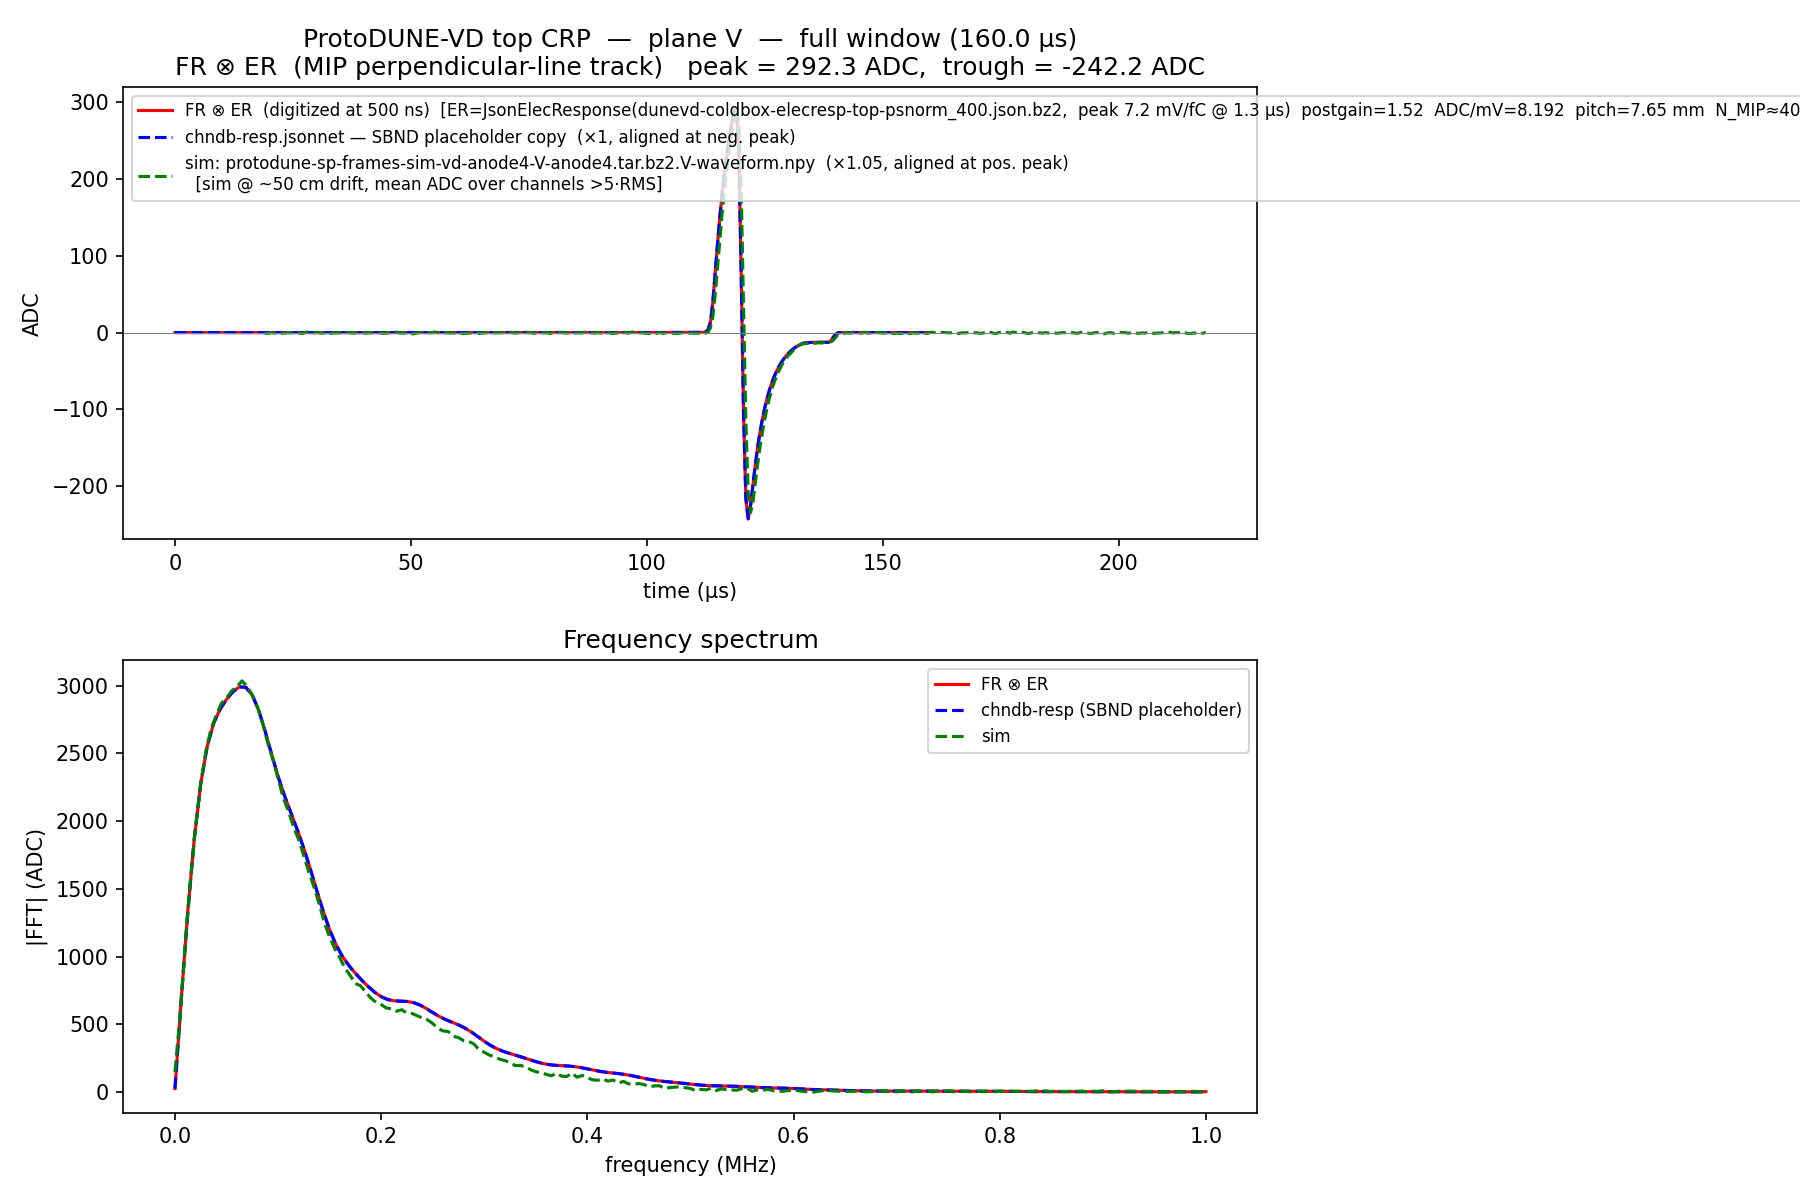
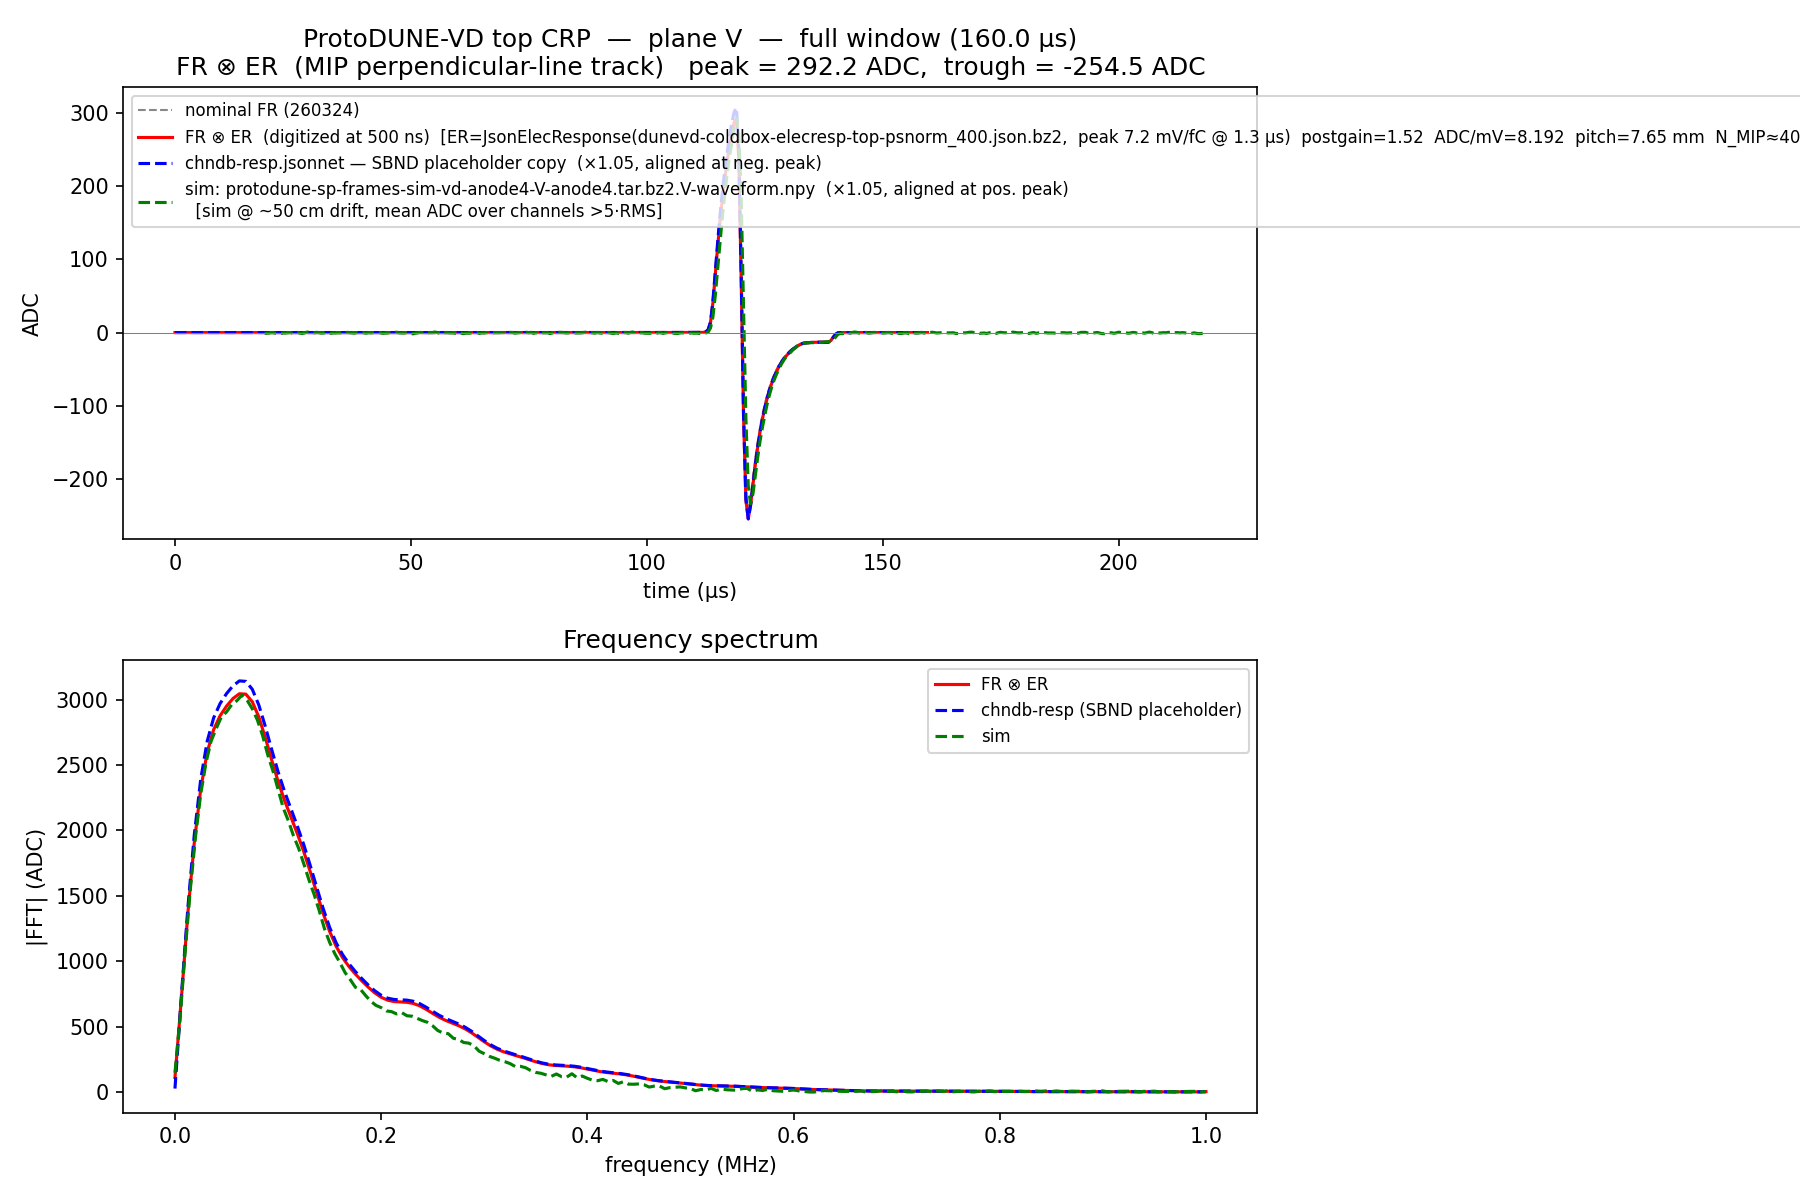
pdvd/nf_plot: add FR imbalance comparison; update to imbalance3p_260501
- pdhd: add APA0 (mcmc-bestfit) vs nominal comparison for U plane only
- pdvd bottom/top: add nominal vs imbalance3p comparison for U and V
- update FR to protodunevd_FR_imbalance3p_260501.json.bz2
- regenerate all PNGs with nominal FR overlay

diff --git a/pdvd/nf_plot/track_response_pdhd.py b/pdvd/nf_plot/track_response_pdhd.py
@@ -39,7 +39,8 @@ from wirecell import units
 from wirecell.util.fileio import wirecell_path
 
 WORKDIR = os.path.dirname(os.path.abspath(__file__))
-FR_FILE = 'dune-garfield-1d565.json.bz2'   # APA 1/2/3 nominal (params.jsonnet:159)
+FR_FILE      = 'dune-garfield-1d565.json.bz2'                  # APA 1/2/3 nominal (params.jsonnet:159)
+FR_FILE_APA0 = 'np04hd-garfield-6paths-mcmc-bestfit.json.bz2'  # APA 0 (params.jsonnet:157)
 
 CHNDB_RESP_FILE = ('/nfs/data/1/xqian/toolkit-dev/toolkit/cfg/pgrapher'
                    '/experiment/pdhd/chndb-resp.jsonnet')
@@ -127,7 +128,7 @@ def line_source_response(plane):
     return integral / pitch
 
 
-def make_plot(wave_adc, chndb_ref, tick_us, plane_label, pitch_mm, n_mip_pl, outpath, sim=None):
+def make_plot(wave_adc, chndb_ref, tick_us, plane_label, pitch_mm, n_mip_pl, outpath, sim=None, wave_apa0=None):
     N = len(wave_adc)
     t_us      = np.arange(N) * tick_us
     freqs_mhz = np.fft.rfftfreq(N, d=tick_us)
@@ -153,6 +154,10 @@ def make_plot(wave_adc, chndb_ref, tick_us, plane_label, pitch_mm, n_mip_pl, out
     fig, axes = plt.subplots(2, 1, figsize=(12, 8))
 
     ax = axes[0]
+    if wave_apa0 is not None:
+        t_us_a0 = np.arange(len(wave_apa0)) * tick_us
+        ax.plot(t_us_a0, wave_apa0, color='#888888', lw=1.0, ls='--',
+                label='APA0 FR (np04hd-garfield-6paths-mcmc-bestfit)')
     ax.plot(t_us, wave_adc, 'r-', lw=1.5,
             label=f'FR ⊗ ER (digitized at {tick_us*1000:.0f} ns)  [{params_str}]')
     ax.plot(t_chndb, chndb_scaled, 'b--', lw=1.5,
@@ -200,6 +205,9 @@ def run():
     print(f'Loading {FR_FILE} ...')
     fr = persist.load(FR_FILE, paths=wirecell_path())
     print(f'FR period = {fr.period} ns,  tstart = {fr.tstart}')
+    print(f'Loading {FR_FILE_APA0} for APA0 comparison ...')
+    fr_apa0 = persist.load(FR_FILE_APA0, paths=wirecell_path())
+    apa0_planes = {pl.planeid: pl for pl in fr_apa0.planes}
 
     period_ns = fr.period
     N_fr = len(fr.planes[0].paths[0].current)
@@ -264,6 +272,31 @@ def run():
         print(f'  bipolar balance:  ∫+ = {sum_pos:+.2f}  ∫- = {sum_neg:+.2f}  '
               f'net = {net:+.2f}  total = {total:.2f}  balance = {balance:+.4f} (ADC·µs)')
 
+        # APA0 FR comparison — U plane only (V is collection-like for APA0)
+        wave_adc_apa0 = None
+        if label == 'U':
+            pl_a0 = apa0_planes[pid]
+            N_fr_a0 = len(pl_a0.paths[0].current)
+            times_a0 = np.arange(N_fr_a0, dtype=float) * period_ns
+            er_a0 = np.asarray(wc_resp.electronics(times_a0, peak_gain=GAIN, shaping=SHAPING,
+                                                    elec_type='cold'), dtype=float)
+            N_adc_a0 = int(round(N_fr_a0 * period_ns / ADC_TICK_NS))
+            fr_line_a0 = line_source_response(pl_a0)
+            wave_adc_apa0 = sp_resample(
+                -(wc_resp.convolve(fr_line_a0, er_a0) * period_ns * n_mip(pl_a0.pitch) / units.mV * POSTGAIN),
+                N_adc_a0) * ADC_PER_MV
+            sp_a0 = float(wave_adc_apa0[wave_adc_apa0 > 0].sum()) * tick_us
+            sn_a0 = float(wave_adc_apa0[wave_adc_apa0 < 0].sum()) * tick_us
+            net_a0 = sp_a0 + sn_a0; tot_a0 = sp_a0 - sn_a0
+            print(f'  --- APA0 imbalance comparison (U only) ---')
+            print(f'  {"":18s}  {"nominal APA1-3":>16s}  {"APA0 mcmc-bestfit":>18s}')
+            print(f'  {"pos peak (ADC)":18s}  {pk_pos_adc:>16.2f}  {wave_adc_apa0[np.argmax(wave_adc_apa0)]:>18.2f}')
+            print(f'  {"neg trough (ADC)":18s}  {pk_neg_adc:>16.2f}  {wave_adc_apa0[np.argmin(wave_adc_apa0)]:>18.2f}')
+            print(f'  {"∫+ (ADC·µs)":18s}  {sum_pos:>16.2f}  {sp_a0:>18.2f}')
+            print(f'  {"∫- (ADC·µs)":18s}  {sum_neg:>16.2f}  {sn_a0:>18.2f}')
+            print(f'  {"net (ADC·µs)":18s}  {net:>+16.4f}  {net_a0:>+18.4f}')
+            print(f'  {"balance":18s}  {balance:>+16.4f}  {net_a0/tot_a0:>+18.4f}')
+
         chndb_ref = chndb[chndb_keys[pid]]
         i_neg_c   = int(np.argmin(chndb_ref))
         scale     = pk_neg_adc / chndb_ref[i_neg_c]
@@ -279,7 +312,8 @@ def run():
                   f'pos peak={y_sim[j_sim]:.2f} at idx {j_sim},  scale={sim_scale:.4g}')
 
         outpath = os.path.join(WORKDIR, f'track_response_pdhd_{label}.png')
-        make_plot(wave_adc, chndb_ref, tick_us, label, pl.pitch, n_mip_pl, outpath, sim=sim)
+        make_plot(wave_adc, chndb_ref, tick_us, label, pl.pitch, n_mip_pl, outpath, sim=sim,
+                  wave_apa0=wave_adc_apa0)
 
 
 if __name__ == '__main__':

diff --git a/pdvd/nf_plot/track_response_pdvd_top.py b/pdvd/nf_plot/track_response_pdvd_top.py
@@ -43,7 +43,8 @@ from wirecell import units
 from wirecell.util.fileio import wirecell_path
 
 WORKDIR = os.path.dirname(os.path.abspath(__file__))
-FR_FILE = 'protodunevd_FR_norminal_260324.json.bz2'
+FR_FILE_NOMINAL = 'protodunevd_FR_norminal_260324.json.bz2'
+FR_FILE         = 'protodunevd_FR_imbalance3p_260501.json.bz2'
 ER_FILE = 'dunevd-coldbox-elecresp-top-psnorm_400.json.bz2'
 
 CHNDB_RESP_FILE = ('/nfs/data/1/xqian/toolkit-dev/toolkit/cfg/pgrapher'
@@ -150,7 +151,7 @@ def line_source_response(plane):
     return integral / pitch
 
 
-def make_plot(wave_adc, chndb_ref, tick_us, plane_label, pitch_mm, n_mip_pl, outpath, er_info, sim=None):
+def make_plot(wave_adc, chndb_ref, tick_us, plane_label, pitch_mm, n_mip_pl, outpath, er_info, sim=None, wave_nominal=None):
     N = len(wave_adc)
     t_us      = np.arange(N) * tick_us
     freqs_mhz = np.fft.rfftfreq(N, d=tick_us)
@@ -175,6 +176,10 @@ def make_plot(wave_adc, chndb_ref, tick_us, plane_label, pitch_mm, n_mip_pl, out
     fig, axes = plt.subplots(2, 1, figsize=(12, 8))
 
     ax = axes[0]
+    if wave_nominal is not None:
+        t_us_nom = np.arange(len(wave_nominal)) * tick_us
+        ax.plot(t_us_nom, wave_nominal, color='#888888', lw=1.0, ls='--',
+                label='nominal FR (260324)')
     ax.plot(t_us, wave_adc, 'r-', lw=1.5,
             label=f'FR ⊗ ER  (digitized at {tick_us*1000:.0f} ns)  [{params_str}]')
     ax.plot(t_chndb, chndb_scaled, 'b--', lw=1.5,
@@ -221,6 +226,9 @@ def make_plot(wave_adc, chndb_ref, tick_us, plane_label, pitch_mm, n_mip_pl, out
 def run():
     print(f'Loading {FR_FILE} ...')
     fr = persist.load(FR_FILE, paths=wirecell_path())
+    print(f'Loading {FR_FILE_NOMINAL} for comparison ...')
+    fr_nom = persist.load(FR_FILE_NOMINAL, paths=wirecell_path())
+    nom_planes = {pl.planeid: pl for pl in fr_nom.planes}
     period_ns = fr.period
     N_fr_native = len(fr.planes[0].paths[0].current)
     if OUTPUT_WINDOW_NS > N_fr_native * period_ns:
@@ -314,6 +322,26 @@ def run():
         print(f'  bipolar balance:  ∫+ = {sum_pos:+.2f}  ∫- = {sum_neg:+.2f}  '
               f'net = {net:+.2f}  total = {total:.2f}  balance = {balance:+.4f} (ADC·µs)')
 
+        # Compute nominal FR response for imbalance comparison (same ER as new FR)
+        pl_nom = nom_planes[pid]
+        fr_line_nom = line_source_response(pl_nom)
+        if N_fr > len(fr_line_nom):
+            _pad = np.zeros(N_fr); _pad[:len(fr_line_nom)] = fr_line_nom; fr_line_nom = _pad
+        wave_adc_nom = sp_resample(
+            -(wc_resp.convolve(fr_line_nom, er) * period_ns * n_mip(pl_nom.pitch) / units.mV * POSTGAIN),
+            N_adc) * ADC_PER_MV
+        sp_nom = float(wave_adc_nom[wave_adc_nom > 0].sum()) * tick_us
+        sn_nom = float(wave_adc_nom[wave_adc_nom < 0].sum()) * tick_us
+        net_nom = sp_nom + sn_nom; tot_nom = sp_nom - sn_nom
+        print(f'  --- imbalance comparison ---')
+        print(f'  {"":18s}  {"nominal 260324":>16s}  {"imbalance3p 260501":>20s}')
+        print(f'  {"pos peak (ADC)":18s}  {wave_adc_nom[np.argmax(wave_adc_nom)]:>16.2f}  {pk_pos_adc:>20.2f}')
+        print(f'  {"neg trough (ADC)":18s}  {wave_adc_nom[np.argmin(wave_adc_nom)]:>16.2f}  {pk_neg_adc:>20.2f}')
+        print(f'  {"∫+ (ADC·µs)":18s}  {sp_nom:>16.2f}  {sum_pos:>20.2f}')
+        print(f'  {"∫- (ADC·µs)":18s}  {sn_nom:>16.2f}  {sum_neg:>20.2f}')
+        print(f'  {"net (ADC·µs)":18s}  {net_nom:>+16.4f}  {net:>+20.4f}')
+        print(f'  {"balance":18s}  {net_nom/tot_nom:>+16.4f}  {balance:>+20.4f}')
+
         chndb_ref = chndb[chndb_keys[pid]]
         i_neg_c   = int(np.argmin(chndb_ref))
         scale     = pk_neg_adc / chndb_ref[i_neg_c]
@@ -329,7 +357,8 @@ def run():
                   f'pos peak={y_sim[j_sim]:.2f} at idx {j_sim},  scale={sim_scale:.4g}')
 
         outpath = os.path.join(WORKDIR, f'track_response_pdvd_top_{label}.png')
-        make_plot(wave_adc, chndb_ref, tick_us, label, pl.pitch, n_mip_pl, outpath, er_info, sim=sim)
+        make_plot(wave_adc, chndb_ref, tick_us, label, pl.pitch, n_mip_pl, outpath, er_info, sim=sim,
+                  wave_nominal=wave_adc_nom)
 
 
 if __name__ == '__main__':

diff --git a/pdvd/nf_plot/track_response_pdvd_bottom.py b/pdvd/nf_plot/track_response_pdvd_bottom.py
@@ -37,7 +37,8 @@ from wirecell import units
 from wirecell.util.fileio import wirecell_path
 
 WORKDIR = os.path.dirname(os.path.abspath(__file__))
-FR_FILE = 'protodunevd_FR_norminal_260324.json.bz2'
+FR_FILE_NOMINAL = 'protodunevd_FR_norminal_260324.json.bz2'
+FR_FILE         = 'protodunevd_FR_imbalance3p_260501.json.bz2'
 
 CHNDB_RESP_FILE = ('/nfs/data/1/xqian/toolkit-dev/toolkit/cfg/pgrapher'
                    '/experiment/protodunevd/chndb-resp-bot.jsonnet')
@@ -132,7 +133,7 @@ def line_source_response(plane):
     return integral / pitch
 
 
-def make_plot(wave_adc, chndb_ref, tick_us, plane_label, pitch_mm, n_mip_pl, outpath, sim=None):
+def make_plot(wave_adc, chndb_ref, tick_us, plane_label, pitch_mm, n_mip_pl, outpath, sim=None, wave_nominal=None):
     N = len(wave_adc)
     t_us      = np.arange(N) * tick_us
     freqs_mhz = np.fft.rfftfreq(N, d=tick_us)
@@ -158,6 +159,10 @@ def make_plot(wave_adc, chndb_ref, tick_us, plane_label, pitch_mm, n_mip_pl, out
     fig, axes = plt.subplots(2, 1, figsize=(12, 8))
 
     ax = axes[0]
+    if wave_nominal is not None:
+        t_us_nom = np.arange(len(wave_nominal)) * tick_us
+        ax.plot(t_us_nom, wave_nominal, color='#888888', lw=1.0, ls='--',
+                label='nominal FR (260324)')
     ax.plot(t_us, wave_adc, 'r-', lw=1.5,
             label=f'FR ⊗ ER (digitized at {tick_us*1000:.0f} ns)  [{params_str}]')
     ax.plot(t_chndb, chndb_scaled, 'b--', lw=1.5,
@@ -205,6 +210,9 @@ def run():
     print(f'Loading {FR_FILE} ...')
     fr = persist.load(FR_FILE, paths=wirecell_path())
     print(f'FR period = {fr.period} ns,  tstart = {fr.tstart}')
+    print(f'Loading {FR_FILE_NOMINAL} for comparison ...')
+    fr_nom = persist.load(FR_FILE_NOMINAL, paths=wirecell_path())
+    nom_planes = {pl.planeid: pl for pl in fr_nom.planes}
 
     period_ns = fr.period
     N_fr_native = len(fr.planes[0].paths[0].current)
@@ -279,6 +287,26 @@ def run():
         print(f'  bipolar balance:  ∫+ = {sum_pos:+.2f}  ∫- = {sum_neg:+.2f}  '
               f'net = {net:+.2f}  total = {total:.2f}  balance = {balance:+.4f} (ADC·µs)')
 
+        # Compute nominal FR response for imbalance comparison
+        pl_nom = nom_planes[pid]
+        fr_line_nom = line_source_response(pl_nom)
+        if N_fr > len(fr_line_nom):
+            _pad = np.zeros(N_fr); _pad[:len(fr_line_nom)] = fr_line_nom; fr_line_nom = _pad
+        wave_adc_nom = sp_resample(
+            -(wc_resp.convolve(fr_line_nom, er) * period_ns * n_mip(pl_nom.pitch) / units.mV * POSTGAIN),
+            N_adc) * ADC_PER_MV
+        sp_nom = float(wave_adc_nom[wave_adc_nom > 0].sum()) * tick_us
+        sn_nom = float(wave_adc_nom[wave_adc_nom < 0].sum()) * tick_us
+        net_nom = sp_nom + sn_nom; tot_nom = sp_nom - sn_nom
+        print(f'  --- imbalance comparison ---')
+        print(f'  {"":18s}  {"nominal 260324":>16s}  {"imbalance3p 260501":>20s}')
+        print(f'  {"pos peak (ADC)":18s}  {wave_adc_nom[np.argmax(wave_adc_nom)]:>16.2f}  {pk_pos_adc:>20.2f}')
+        print(f'  {"neg trough (ADC)":18s}  {wave_adc_nom[np.argmin(wave_adc_nom)]:>16.2f}  {pk_neg_adc:>20.2f}')
+        print(f'  {"∫+ (ADC·µs)":18s}  {sp_nom:>16.2f}  {sum_pos:>20.2f}')
+        print(f'  {"∫- (ADC·µs)":18s}  {sn_nom:>16.2f}  {sum_neg:>20.2f}')
+        print(f'  {"net (ADC·µs)":18s}  {net_nom:>+16.4f}  {net:>+20.4f}')
+        print(f'  {"balance":18s}  {net_nom/tot_nom:>+16.4f}  {balance:>+20.4f}')
+
         chndb_ref = chndb[chndb_keys[pid]]
         i_neg_c   = int(np.argmin(chndb_ref))
         scale     = pk_neg_adc / chndb_ref[i_neg_c]
@@ -294,7 +322,8 @@ def run():
                   f'pos peak={y_sim[j_sim]:.2f} at idx {j_sim},  scale={sim_scale:.4g}')
 
         outpath = os.path.join(WORKDIR, f'track_response_pdvd_bottom_{label}.png')
-        make_plot(wave_adc, chndb_ref, tick_us, label, pl.pitch, n_mip_pl, outpath, sim=sim)
+        make_plot(wave_adc, chndb_ref, tick_us, label, pl.pitch, n_mip_pl, outpath, sim=sim,
+                  wave_nominal=wave_adc_nom)
 
 
 if __name__ == '__main__':
